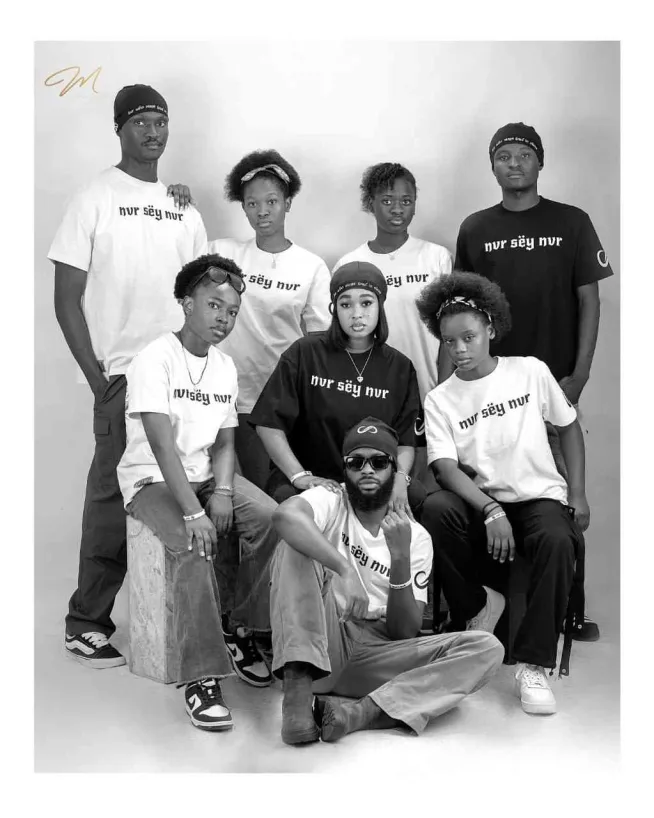
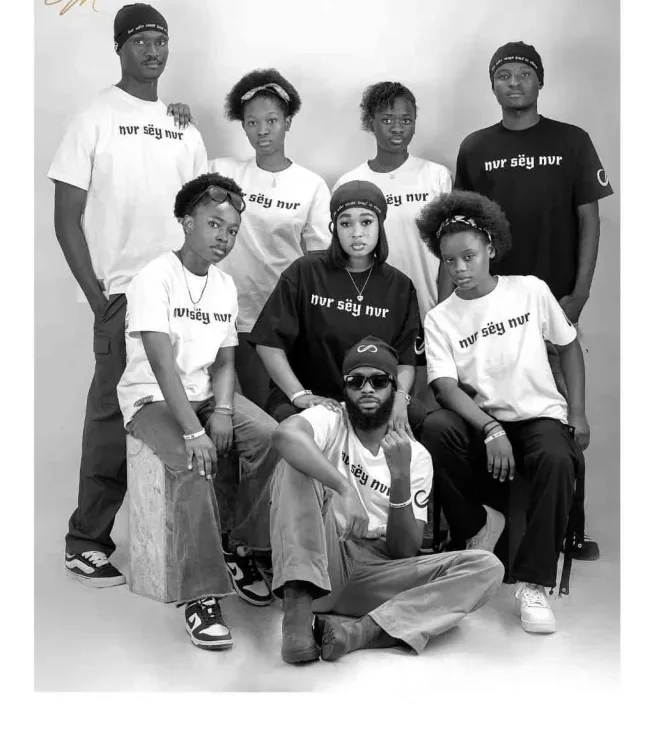
Community wall, tighter mobile hero card and buttons
- The hero card lies over the foot of the frame at every size now, scaled
  down on phones instead of running the width of the page, with the slide
  dashes moved to the opposite corner
- Landing buttons trimmed on phones: smaller padding and labels, held at
  the 28px tap floor and 10px type
- The last hero carries the new marble editorial and no longer shows slide
  dashes, since it was never a slideshow
- Join our community is now a masonry wall in the Pinterest manner: a card
  per piece on the people wearing it, two columns on phones and four on
  desktop, each linking through to its product
- Cropped the photographer's watermark out of the remaining studio frames

diff --git a/src/app/(landing)/home/page.tsx b/src/app/(landing)/home/page.tsx
@@ -61,10 +61,26 @@ const exploreCards = [
   },
 ];
 
-const communityPhotos = [
-  { src: "/images/collab/joeyb-poster.png", alt: "Joey B in the nvrsëynvr beanie" },
-  { src: "/images/lifestyle/ghana-flag-man.webp", alt: "Raising the Ghana flag over Accra" },
-  { src: "/images/lifestyle/van-selfie.webp", alt: "The community in nvrsëynvr beanies" },
+/**
+ * The community wall: a piece per card, shown on the people wearing it. Laid
+ * out as a masonry so the frames keep their own shapes. Each entry carries the
+ * photo's real size so the column can reserve the right height before it loads.
+ */
+const communityPosts = [
+  { src: "/images/lifestyle/worn-freedom-orange.jpg", w: 1024, h: 1536, label: "FREEDOM", href: "/products/freedom-tee", alt: "Freedom tee worn against an orange wall" },
+  { src: "/images/lifestyle/worn-ghana-crew.jpg", w: 1024, h: 1536, label: "GHANA MUST GO", href: "/products/ghana-must-go-tee", alt: "The crew in Ghana Must Go tees and Exclusive caps" },
+  { src: "/images/lifestyle/survivors-group.webp", w: 654, h: 737, label: "SURVIVORS", href: "/products/survivors-tee", alt: "Survivors tees on the crew" },
+  { src: "/images/products/trucker-cap-navy-model.webp", w: 545, h: 818, label: "GRIND CAP", href: "/products/grind-trucker-cap", alt: "Grind cap in sea blue" },
+  { src: "/images/lifestyle/worn-freedom-cap.jpg", w: 1024, h: 1536, label: "EXCLUSIVE CAPS", href: "/products/exclusive-cap", alt: "Cream Exclusive cap worn with the Freedom tee" },
+  { src: "/images/lifestyle/studio-rack.jpg", w: 2048, h: 1394, label: "KEEP MOVING", href: "/products/keep-moving-tee", alt: "Going through the rail" },
+  { src: "/images/products/beanie-black-model.webp", w: 905, h: 818, label: "INFINITI BENNIE", href: "/products/infiniti-bennie", alt: "Infiniti bennie in black" },
+  { src: "/images/lifestyle/three-girls-tees.webp", w: 654, h: 737, label: "SURVIVORS", href: "/products/survivors-tee", alt: "Survivors tees in the studio" },
+  { src: "/images/products/trucker-cap-brown-model.webp", w: 545, h: 818, label: "GRIND CAP", href: "/products/grind-trucker-cap", alt: "Grind cap in brown and navy" },
+  { src: "/images/lifestyle/van-selfie.webp", w: 612, h: 818, label: "INFINITI BENNIE", href: "/products/infiniti-bennie", alt: "Bennies on the road" },
+  { src: "/images/products/ghana-hand-tee.webp", w: 546, h: 818, label: "FREEDOM", href: "/products/freedom-tee", alt: "Freedom tee on the street" },
+  { src: "/images/products/trucker-cap-green-model.webp", w: 545, h: 818, label: "GRIND CAP", href: "/products/grind-trucker-cap", alt: "Grind cap in green" },
+  { src: "/images/lifestyle/girl-black-tee-cap.webp", w: 545, h: 818, label: "SURVIVORS", href: "/products/survivors-tee", alt: "Black tee and cap" },
+  { src: "/images/lifestyle/ns-group-basketball.webp", w: 460, h: 818, label: "THE CREW", href: "/shop", alt: "The crew on the court" },
 ];
 
 function BandSequence() {
@@ -117,11 +133,11 @@ export default function LandingPage() {
   return (
     <>
       {/* ── Hero with overlay nav ──
-          The photography is landscape. On a phone it keeps that shape at the
-          top of the page with the message card beneath it, rather than being
-          blown up to fill a tall portrait frame. From small screens up it goes
-          back to a full bleed hero with the card laid over it. */}
-      <section className="relative overflow-hidden bg-black pb-8 lg:min-h-screen lg:pb-0">
+          The photography is landscape, so below laptop width the frame keeps
+          that shape rather than being blown up to fill a tall portrait screen.
+          The message card lies over its bottom left corner at every size, just
+          scaled to suit. */}
+      <section className="relative overflow-hidden bg-black lg:min-h-screen">
         <div className="relative aspect-[2048/1394] w-full lg:absolute lg:inset-0 lg:aspect-auto">
           {heroSlides.map((frame, i) => (
             <Image
@@ -144,9 +160,9 @@ export default function LandingPage() {
             className="pointer-events-none absolute inset-0 bg-gradient-to-b from-black/65 via-black/15 to-black/60"
           />
 
-          {/* Slide dashes, with a tappable area around each hairline. They ride
-              above the card where it overlaps the foot of the photo. */}
-          <div className="absolute bottom-12 left-1/2 z-10 flex -translate-x-1/2 sm:bottom-[72px] lg:bottom-2">
+          {/* Slide dashes, with a tappable area around each hairline, kept to
+              the right of the card that sits in the opposite corner. */}
+          <div className="absolute bottom-0 right-1 z-10 flex lg:bottom-2 lg:left-1/2 lg:right-auto lg:-translate-x-1/2">
             {heroSlides.map((_, i) => (
               <button
                 key={i}
@@ -197,26 +213,26 @@ export default function LandingPage() {
           </div>
         </div>
 
-        {/* Message card: under the photo on a phone, over it from small up */}
+        {/* Message card: laid over the foot of the frame at every size */}
         <Reveal
           variant="left"
-          className="relative z-10 -mt-10 ml-4 max-w-[420px] bg-[#efe9dd] p-4 sm:-mt-14 sm:ml-6 sm:p-6 lg:absolute lg:bottom-[8%] lg:left-0 lg:ml-0 lg:mt-0 lg:w-[88%] lg:p-8"
+          className="absolute bottom-0 left-0 z-10 w-[63%] max-w-[300px] bg-[#efe9dd] p-3 sm:bottom-[6%] sm:w-[56%] sm:p-5 lg:bottom-[8%] lg:w-[88%] lg:max-w-[420px] lg:p-8"
         >
-          <h1 className="text-[20px] font-bold leading-[1.15] sm:text-[32px]">
+          <h1 className="text-[14px] font-bold leading-[1.15] sm:text-[20px] lg:text-[32px]">
             Built for the ones
             <br />
             who <em className="font-normal italic">never gave up</em>
           </h1>
-          <p className="mt-2 max-w-[280px] text-[10px] leading-snug text-black/80 sm:mt-3 sm:text-[12px]">
+          <p className="mt-1.5 max-w-[280px] text-[10px] leading-snug text-black/80 sm:mt-2 sm:text-[10px] lg:mt-3 lg:text-[12px]">
             Caps, beanies and tees —made slowly, in small numbers for people
             who&nbsp; keep moving.
           </p>
           <Link
             href="/shop"
-            className="btn-swipe btn-swipe-dark mt-3 inline-flex items-center gap-2 border border-black px-3.5 py-2.5 text-[10px] font-bold leading-none tracking-widest sm:mt-5 sm:gap-3 sm:px-4 sm:py-3 sm:text-[11px]"
+            className="btn-swipe btn-swipe-dark mt-2.5 inline-flex items-center gap-1.5 border border-black px-2.5 py-2.5 text-[10px] font-bold leading-none tracking-widest sm:mt-3 sm:gap-2 sm:px-3 sm:text-[10px] lg:mt-5 lg:gap-3 lg:px-4 lg:py-3 lg:text-[11px]"
           >
             SHOP THE DROP
-            <LongArrowIcon className="h-2.5 w-6 sm:h-3 sm:w-8" />
+            <LongArrowIcon className="h-2.5 w-5 lg:h-3 lg:w-8" />
           </Link>
         </Reveal>
       </section>
@@ -242,10 +258,10 @@ export default function LandingPage() {
             </p>
             <Link
               href="/collections"
-              className="btn-swipe btn-swipe-dark mt-8 inline-flex items-center gap-3 border border-black px-6 py-3 text-[11px] font-bold tracking-[0.18em]"
+              className="btn-swipe btn-swipe-dark mt-6 inline-flex items-center gap-1.5 border border-black px-3 py-2.5 text-[10px] font-bold tracking-[0.12em] sm:mt-8 sm:gap-3 sm:px-6 sm:py-3 sm:text-[11px] sm:tracking-[0.18em]"
             >
               VIEW COLLECTION
-              <LongArrowIcon className="h-3 w-7" />
+              <LongArrowIcon className="h-2.5 w-5 sm:h-3 sm:w-7" />
             </Link>
           </Reveal>
 
@@ -347,7 +363,7 @@ export default function LandingPage() {
           </p>
           <Link
             href="/shop"
-            className="btn-swipe btn-swipe-dark mt-3 inline-block whitespace-nowrap bg-white px-3.5 py-2.5 text-[10px] font-bold leading-none tracking-widest sm:hidden"
+            className="btn-swipe btn-swipe-dark mt-2.5 inline-block whitespace-nowrap bg-white px-3 py-2.5 text-[10px] font-bold leading-none tracking-widest sm:hidden"
           >
             EXPLORE NOW
           </Link>
@@ -372,17 +388,40 @@ export default function LandingPage() {
               nvrsëynvr
             </span>
           </Reveal>
-          <Reveal group className="mt-6 grid grid-cols-3 gap-3 sm:mt-10 sm:gap-6">
-            {communityPhotos.map((photo) => (
-              <div key={photo.src} className="group relative aspect-[645/794] overflow-hidden">
-                <Image
-                  src={photo.src}
-                  alt={photo.alt}
-                  fill
-                  sizes="33vw"
-                  className="object-cover transition-transform duration-[900ms] ease-out group-hover:scale-105"
-                />
-              </div>
+          {/* A masonry wall: every piece on the people wearing it. Columns let
+              each frame keep its own height instead of being cropped square. */}
+          <Reveal
+            className="mt-6 columns-2 gap-3 sm:mt-10 sm:columns-3 sm:gap-4 lg:columns-4 lg:gap-5"
+            data-testid="community-wall"
+          >
+            {communityPosts.map((post) => (
+              <Link
+                key={post.src}
+                href={post.href}
+                data-testid="community-card"
+                className="group mb-3 block break-inside-avoid sm:mb-4 lg:mb-5"
+              >
+                <div className="relative overflow-hidden bg-card">
+                  <Image
+                    src={post.src}
+                    alt={post.alt}
+                    width={post.w}
+                    height={post.h}
+                    sizes="(max-width: 640px) 46vw, (max-width: 1024px) 31vw, 23vw"
+                    className="h-auto w-full transition-transform duration-[900ms] ease-out group-hover:scale-[1.04]"
+                  />
+                  <span
+                    aria-hidden="true"
+                    className="pointer-events-none absolute inset-0 bg-black/0 transition-colors duration-300 group-hover:bg-black/20"
+                  />
+                  <span className="absolute bottom-2 left-2 translate-y-1 bg-white px-2.5 py-1 text-[10px] font-bold tracking-widest opacity-0 transition-all duration-300 group-hover:translate-y-0 group-hover:opacity-100">
+                    SHOP
+                  </span>
+                </div>
+                <p className="mt-1.5 text-[10px] font-bold tracking-[0.08em] sm:text-[11px]">
+                  {post.label}
+                </p>
+              </Link>
             ))}
           </Reveal>
         </div>
@@ -391,11 +430,11 @@ export default function LandingPage() {
       {/* ── Project-1957-Freedom editorial ── */}
       <section className="relative min-h-[52vh] overflow-hidden sm:min-h-[80vh] lg:min-h-screen">
         <Image
-          src="/images/lifestyle/freedom-editorial.webp"
-          alt="Project-1957-Freedom editorial in Accra"
+          src="/images/lifestyle/editorial-freedom-couple.jpg"
+          alt="The Freedom tee against the marble, Project 1957"
           fill
           sizes="100vw"
-          className="ken-burns object-cover grayscale"
+          className="ken-burns object-cover object-[50%_30%] grayscale"
         />
         <span className="absolute left-3 top-3 bg-white px-3 py-1.5 text-[10px] font-bold leading-none tracking-widest sm:left-6 sm:top-6 sm:px-5 sm:text-[11px]">
           NEW
@@ -405,7 +444,7 @@ export default function LandingPage() {
           className="absolute bottom-10 left-3 text-left text-white sm:bottom-14 sm:left-6 lg:left-10"
         >
           <p className="text-[13px] tracking-[0.06em] [text-shadow:0_1px_10px_rgba(0,0,0,0.7)] sm:text-[20px] lg:text-[24px]">
-            PROJECT-1957-FREEDOM
+            PROJECT 1957
           </p>
           <p className="mt-0.5 text-[11px] tracking-[0.06em] [text-shadow:0_1px_10px_rgba(0,0,0,0.7)] sm:mt-1 sm:text-[18px] lg:text-[22px]">
             NEW COLLECTION
@@ -413,15 +452,10 @@ export default function LandingPage() {
         </Reveal>
         <Link
           href="/collections/project-1957"
-          className="btn-swipe btn-swipe-dark absolute bottom-10 right-3 bg-white px-3.5 py-2.5 text-[10px] font-bold leading-none tracking-widest sm:bottom-14 sm:right-6 sm:px-5 sm:text-[11px] lg:right-10"
+          className="btn-swipe btn-swipe-dark absolute bottom-10 right-3 bg-white px-3 py-2.5 text-[10px] font-bold leading-none tracking-widest sm:bottom-14 sm:right-6 sm:px-5 sm:py-2.5 sm:text-[11px] lg:right-10"
         >
           EXPLORE
         </Link>
-        <div className="absolute bottom-5 left-1/2 flex -translate-x-1/2 gap-2">
-          {[0, 1, 2].map((i) => (
-            <span key={i} className={`h-[3px] w-6 ${i === 0 ? "bg-white" : "bg-white/40"}`} />
-          ))}
-        </div>
       </section>
     </>
   );

diff --git a/src/components/landing/VideoHero.tsx b/src/components/landing/VideoHero.tsx
@@ -243,7 +243,7 @@ export function VideoHero() {
           href={STORE_HOME}
           data-testid="video-shop-now"
           tabIndex={showCta ? 0 : -1}
-          className="btn-swipe btn-swipe-light mt-8 inline-flex items-center gap-3 border border-white bg-black/25 px-10 py-4 text-[13px] font-bold tracking-[0.2em] backdrop-blur-sm sm:px-14"
+          className="btn-swipe btn-swipe-light mt-7 inline-flex items-center gap-2.5 border border-white bg-black/25 px-7 py-3 text-[11px] font-bold tracking-[0.2em] backdrop-blur-sm sm:mt-8 sm:gap-3 sm:px-12 sm:py-4 sm:text-[13px]"
         >
           SHOP NOW
           <LongArrowIcon className="h-3 w-8" />
@@ -272,7 +272,7 @@ export function VideoHero() {
       <Link
         href={STORE_HOME}
         data-testid="film-skip"
-        className="group absolute bottom-6 right-5 z-20 inline-flex items-center gap-2 border border-white/45 bg-black/30 px-5 py-2.5 text-[11px] font-bold tracking-[0.22em] backdrop-blur-sm transition-colors hover:border-white hover:bg-black/55 lg:bottom-8 lg:right-8"
+        className="group absolute bottom-5 right-4 z-20 inline-flex items-center gap-1.5 border border-white/45 bg-black/30 px-3.5 py-2 text-[10px] font-bold tracking-[0.22em] backdrop-blur-sm transition-colors hover:border-white hover:bg-black/55 sm:gap-2 sm:px-5 sm:py-2.5 sm:text-[11px] lg:bottom-8 lg:right-8"
       >
         SKIP
         <LongArrowIcon className="h-3 w-7 transition-transform duration-300 group-hover:translate-x-1" />
